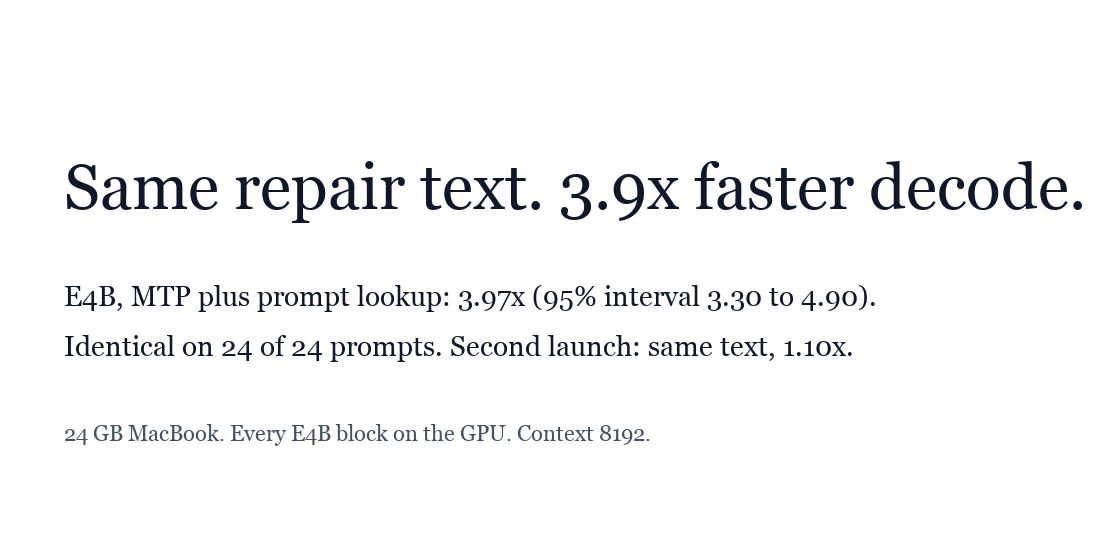
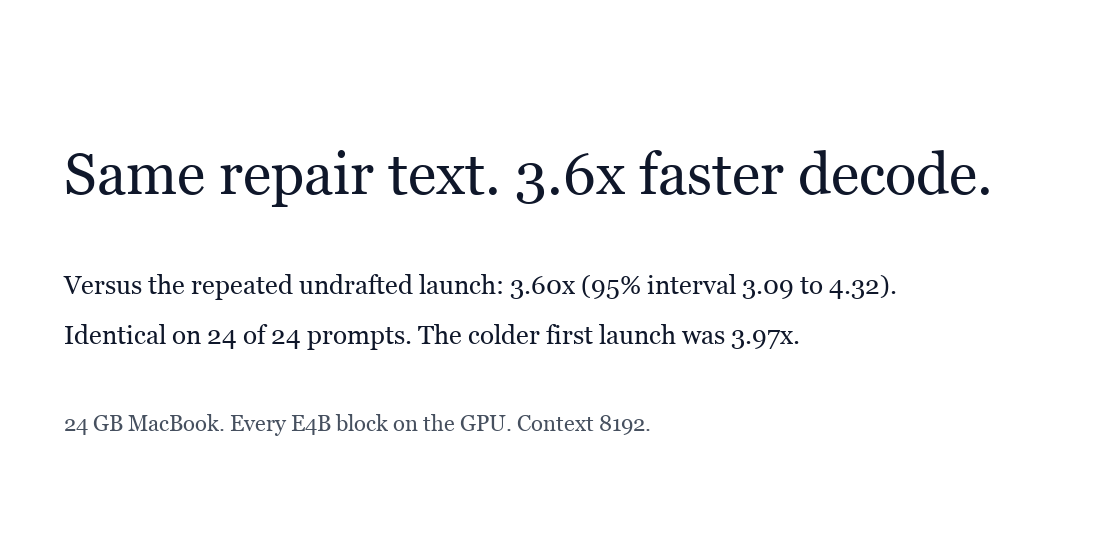
Lead with the 3.60x comparison against the repeated undrafted launch.
The colder first-launch ratios stay in the paper, and the 12B result moves to the limitations.

diff --git a/paper/PAPER_WORK.md b/paper/PAPER_WORK.md
@@ -1,12 +1,12 @@
-# Free Speed: Same E4B Text, 3.9x Faster Decode on a Laptop
+# Free Speed: Same E4B Text, 3.6x Faster Decode on a Laptop
 
-### On a 24 GB MacBook, with every E4B block on the GPU, MTP plus prompt lookup decoded the same repair text {{W1full.e4b.mtp_ngram.ALL.speedup|.2f}} times faster (95 percent interval {{W1full.e4b.mtp_ngram.ALL.speedup_lo|.2f}} to {{W1full.e4b.mtp_ngram.ALL.speedup_hi|.2f}}). A second undrafted launch matched every token.
+### On a 24 GB MacBook, with every E4B block on the GPU, MTP plus prompt lookup decoded the same repair text {{W1full.e4b.mtp_ngram.VS.speedup|.2f}} times faster than a repeated undrafted launch (95 percent interval {{W1full.e4b.mtp_ngram.VS.speedup_lo|.2f}} to {{W1full.e4b.mtp_ngram.VS.speedup_hi|.2f}}).
 
 **Anni Zimina, Orkhan Javadli**
 
 ## Abstract
 
-A Gemma 4 coding agent spends most of its time generating tokens. Gemma 4 ships a multi-token-prediction (MTP) drafter with every model, and prompt lookup can draft tokens by copying from the prompt. We asked whether those two drafters make the same prompts faster without changing the text, on a 24 GB MacBook. A follow-up put every E4B block on the GPU and launched the undrafted server twice on the same {{W1full.e4b.mtp.ALL.n_pairs}} repair prompts. MTP plus prompt lookup decoded at {{W1full.e4b.mtp_ngram.ALL.speedup|.2f}} times the first undrafted rate (95 percent interval {{W1full.e4b.mtp_ngram.ALL.speedup_lo|.2f}} to {{W1full.e4b.mtp_ngram.ALL.speedup_hi|.2f}}), and the full text matched on every prompt. MTP alone was {{W1full.e4b.mtp.ALL.speedup|.2f}} times faster (interval {{W1full.e4b.mtp.ALL.speedup_lo|.2f}} to {{W1full.e4b.mtp.ALL.speedup_hi|.2f}}), also identical on every prompt. The second undrafted launch matched every token and was {{W1full.e4b.baseline_rerun.ALL.speedup|.2f}} times the first (interval {{W1full.e4b.baseline_rerun.ALL.speedup_lo|.2f}} to {{W1full.e4b.baseline_rerun.ALL.speedup_hi|.2f}}), because the first block of the first server was cold. Against that second launch, MTP was still {{W1full.e4b.mtp.VS.speedup|.2f}} times faster (interval {{W1full.e4b.mtp.VS.speedup_lo|.2f}} to {{W1full.e4b.mtp.VS.speedup_hi|.2f}}). Counting prompt processing as well as decode, the MTP ratio is {{W1full.e4b.mtp.ALL.e2e_speedup_with_prefill|.2f}}. The pre-registered 12B comparison did not clear the same bar: a second undrafted 12B launch changed speed by {{W1.12b.baseline_rerun.ALL.speedup|.2f}} times, and no 12B drafter was lossless.
+A Gemma 4 coding agent spends most of its time generating tokens. Gemma 4 ships a multi-token-prediction (MTP) drafter with every model, and prompt lookup can draft tokens by copying from the prompt. We asked whether those two drafters make the same prompts faster without changing the text, on a 24 GB MacBook. A follow-up put every E4B block on the GPU and launched the undrafted server twice on the same {{W1full.e4b.mtp.ALL.n_pairs}} repair prompts. The second launch matched every token and was {{W1full.e4b.baseline_rerun.ALL.speedup|.2f}} times the first, because the first block was cold, so the fair comparison is against that second launch. MTP plus prompt lookup then decoded at {{W1full.e4b.mtp_ngram.VS.speedup|.2f}} times that rate (95 percent interval {{W1full.e4b.mtp_ngram.VS.speedup_lo|.2f}} to {{W1full.e4b.mtp_ngram.VS.speedup_hi|.2f}}), and the full text matched on every prompt. MTP alone was {{W1full.e4b.mtp.VS.speedup|.2f}} times faster (interval {{W1full.e4b.mtp.VS.speedup_lo|.2f}} to {{W1full.e4b.mtp.VS.speedup_hi|.2f}}), also identical on every prompt. Against the colder first launch those ratios are {{W1full.e4b.mtp_ngram.ALL.speedup|.2f}} and {{W1full.e4b.mtp.ALL.speedup|.2f}}. Counting prompt processing as well as decode, the MTP ratio is {{W1full.e4b.mtp.ALL.e2e_speedup_with_prefill|.2f}}.
 
 ## 1. Introduction
 
@@ -81,7 +81,7 @@ If the full-GPU MTP decode ratio of {{W1full.e4b.mtp.ALL.speedup|.3f}} let an ag
 
 ## 4. What this does not show
 
-The 12B speed ratios are not distinguishable from launch-to-launch noise. A repeated baseline that moves by {{W1.12b.baseline_rerun.ALL.speedup|.2f}} times is a finding about laptop timing, not a drafter result: two launches can agree on every token and still disagree on speed by more than the pre-registered 5 percent band. The full-GPU E4B speedup is larger than that band, and the text matched, but the first baseline block was cold, so the fair comparison is the one against the second launch. {{qa.length_share|pct}} of raw rows stopped because they hit the length limit. Prompts use pull-request commit messages, not the competition issue text. The 12B test run and the agent replay both stopped on the clock. The capped runs used 40 percent of the blocks. The full-GPU follow-up did not, and the machine still held swap from the earlier runs. We did not measure the wall clock of a full repair.
+The pre-registered 12B comparison did not clear the lossless bar. No 12B drafter was lossless, and the 12B speed ratios are not distinguishable from launch-to-launch noise. A repeated baseline that moves by {{W1.12b.baseline_rerun.ALL.speedup|.2f}} times is a finding about laptop timing, not a drafter result: two launches can agree on every token and still disagree on speed by more than the pre-registered 5 percent band. The full-GPU E4B speedup is larger than that band, and the text matched, but the first baseline block was cold, so the fair comparison is the one against the second launch. {{qa.length_share|pct}} of raw rows stopped because they hit the length limit. Prompts use pull-request commit messages, not the competition issue text. The 12B test run and the agent replay both stopped on the clock. The capped runs used 40 percent of the blocks. The full-GPU follow-up did not, and the machine still held swap from the earlier runs. We did not measure the wall clock of a full repair.
 
 ## 5. Related work
 

diff --git a/paper/PAPER.md b/paper/PAPER.md
@@ -1,12 +1,12 @@
-# Free Speed: Same E4B Text, 3.9x Faster Decode on a Laptop
+# Free Speed: Same E4B Text, 3.6x Faster Decode on a Laptop
 
-### On a 24 GB MacBook, with every E4B block on the GPU, MTP plus prompt lookup decoded the same repair text 3.97 times faster (95 percent interval 3.30 to 4.90). A second undrafted launch matched every token.
+### On a 24 GB MacBook, with every E4B block on the GPU, MTP plus prompt lookup decoded the same repair text 3.60 times faster than a repeated undrafted launch (95 percent interval 3.09 to 4.32).
 
 **Anni Zimina, Orkhan Javadli**
 
 ## Abstract
 
-A Gemma 4 coding agent spends most of its time generating tokens. Gemma 4 ships a multi-token-prediction (MTP) drafter with every model, and prompt lookup can draft tokens by copying from the prompt. We asked whether those two drafters make the same prompts faster without changing the text, on a 24 GB MacBook. A follow-up put every E4B block on the GPU and launched the undrafted server twice on the same 24 repair prompts. MTP plus prompt lookup decoded at 3.97 times the first undrafted rate (95 percent interval 3.30 to 4.90), and the full text matched on every prompt. MTP alone was 3.38 times faster (interval 2.91 to 3.96), also identical on every prompt. The second undrafted launch matched every token and was 1.10 times the first (interval 1.01 to 1.21), because the first block of the first server was cold. Against that second launch, MTP was still 3.07 times faster (interval 2.73 to 3.52). Counting prompt processing as well as decode, the MTP ratio is 2.59. The pre-registered 12B comparison did not clear the same bar: a second undrafted 12B launch changed speed by 1.46 times, and no 12B drafter was lossless.
+A Gemma 4 coding agent spends most of its time generating tokens. Gemma 4 ships a multi-token-prediction (MTP) drafter with every model, and prompt lookup can draft tokens by copying from the prompt. We asked whether those two drafters make the same prompts faster without changing the text, on a 24 GB MacBook. A follow-up put every E4B block on the GPU and launched the undrafted server twice on the same 24 repair prompts. The second launch matched every token and was 1.10 times the first, because the first block was cold, so the fair comparison is against that second launch. MTP plus prompt lookup then decoded at 3.60 times that rate (95 percent interval 3.09 to 4.32), and the full text matched on every prompt. MTP alone was 3.07 times faster (interval 2.73 to 3.52), also identical on every prompt. Against the colder first launch those ratios are 3.97 and 3.38. Counting prompt processing as well as decode, the MTP ratio is 2.59.
 
 ## 1. Introduction
 
@@ -81,7 +81,7 @@ If the full-GPU MTP decode ratio of 3.381 let an agent attempt more repairs in t
 
 ## 4. What this does not show
 
-The 12B speed ratios are not distinguishable from launch-to-launch noise. A repeated baseline that moves by 1.46 times is a finding about laptop timing, not a drafter result: two launches can agree on every token and still disagree on speed by more than the pre-registered 5 percent band. The full-GPU E4B speedup is larger than that band, and the text matched, but the first baseline block was cold, so the fair comparison is the one against the second launch. 18.7% of raw rows stopped because they hit the length limit. Prompts use pull-request commit messages, not the competition issue text. The 12B test run and the agent replay both stopped on the clock. The capped runs used 40 percent of the blocks. The full-GPU follow-up did not, and the machine still held swap from the earlier runs. We did not measure the wall clock of a full repair.
+The pre-registered 12B comparison did not clear the lossless bar. No 12B drafter was lossless, and the 12B speed ratios are not distinguishable from launch-to-launch noise. A repeated baseline that moves by 1.46 times is a finding about laptop timing, not a drafter result: two launches can agree on every token and still disagree on speed by more than the pre-registered 5 percent band. The full-GPU E4B speedup is larger than that band, and the text matched, but the first baseline block was cold, so the fair comparison is the one against the second launch. 18.7% of raw rows stopped because they hit the length limit. Prompts use pull-request commit messages, not the competition issue text. The 12B test run and the agent replay both stopped on the clock. The capped runs used 40 percent of the blocks. The full-GPU follow-up did not, and the machine still held swap from the earlier runs. We did not measure the wall clock of a full repair.
 
 ## 5. Related work
 

diff --git a/SUBMISSION/BODY.md b/SUBMISSION/BODY.md
@@ -1,6 +1,6 @@
 ## Abstract
 
-A Gemma 4 coding agent spends most of its time generating tokens. Gemma 4 ships a multi-token-prediction (MTP) drafter with every model, and prompt lookup can draft tokens by copying from the prompt. We asked whether those two drafters make the same prompts faster without changing the text, on a 24 GB MacBook. A follow-up put every E4B block on the GPU and launched the undrafted server twice on the same 24 repair prompts. MTP plus prompt lookup decoded at 3.97 times the first undrafted rate (95 percent interval 3.30 to 4.90), and the full text matched on every prompt. MTP alone was 3.38 times faster (interval 2.91 to 3.96), also identical on every prompt. The second undrafted launch matched every token and was 1.10 times the first (interval 1.01 to 1.21), because the first block of the first server was cold. Against that second launch, MTP was still 3.07 times faster (interval 2.73 to 3.52). Counting prompt processing as well as decode, the MTP ratio is 2.59. The pre-registered 12B comparison did not clear the same bar: a second undrafted 12B launch changed speed by 1.46 times, and no 12B drafter was lossless.
+A Gemma 4 coding agent spends most of its time generating tokens. Gemma 4 ships a multi-token-prediction (MTP) drafter with every model, and prompt lookup can draft tokens by copying from the prompt. We asked whether those two drafters make the same prompts faster without changing the text, on a 24 GB MacBook. A follow-up put every E4B block on the GPU and launched the undrafted server twice on the same 24 repair prompts. The second launch matched every token and was 1.10 times the first, because the first block was cold, so the fair comparison is against that second launch. MTP plus prompt lookup then decoded at 3.60 times that rate (95 percent interval 3.09 to 4.32), and the full text matched on every prompt. MTP alone was 3.07 times faster (interval 2.73 to 3.52), also identical on every prompt. Against the colder first launch those ratios are 3.97 and 3.38. Counting prompt processing as well as decode, the MTP ratio is 2.59.
 
 ## 1. Introduction
 
@@ -75,7 +75,7 @@ If the full-GPU MTP decode ratio of 3.381 let an agent attempt more repairs in t
 
 ## 4. What this does not show
 
-The 12B speed ratios are not distinguishable from launch-to-launch noise. A repeated baseline that moves by 1.46 times is a finding about laptop timing, not a drafter result: two launches can agree on every token and still disagree on speed by more than the pre-registered 5 percent band. The full-GPU E4B speedup is larger than that band, and the text matched, but the first baseline block was cold, so the fair comparison is the one against the second launch. 18.7% of raw rows stopped because they hit the length limit. Prompts use pull-request commit messages, not the competition issue text. The 12B test run and the agent replay both stopped on the clock. The capped runs used 40 percent of the blocks. The full-GPU follow-up did not, and the machine still held swap from the earlier runs. We did not measure the wall clock of a full repair.
+The pre-registered 12B comparison did not clear the lossless bar. No 12B drafter was lossless, and the 12B speed ratios are not distinguishable from launch-to-launch noise. A repeated baseline that moves by 1.46 times is a finding about laptop timing, not a drafter result: two launches can agree on every token and still disagree on speed by more than the pre-registered 5 percent band. The full-GPU E4B speedup is larger than that band, and the text matched, but the first baseline block was cold, so the fair comparison is the one against the second launch. 18.7% of raw rows stopped because they hit the length limit. Prompts use pull-request commit messages, not the competition issue text. The 12B test run and the agent replay both stopped on the clock. The capped runs used 40 percent of the blocks. The full-GPU follow-up did not, and the machine still held swap from the earlier runs. We did not measure the wall clock of a full repair.
 
 ## 5. Related work
 

diff --git a/README.md b/README.md
@@ -4,8 +4,8 @@ A laptop measurement of Gemma 4's shipped multi-token-prediction drafter and of 
 
 On this machine (Apple M4 Pro, 24 GB, context 8192):
 
-- Full GPU, every E4B block: MTP plus prompt lookup decoded the same repair text 3.97 times faster than the first undrafted launch (95 percent interval 3.30 to 4.90) on 24 of 24 prompts. MTP alone was 3.38 times faster (interval 2.91 to 3.96), also identical on all 24.
-- A second undrafted E4B launch matched every token and was 1.10 times the first (interval 1.01 to 1.21), because the first block was cold. Against that second launch, MTP was 3.07 times faster (interval 2.73 to 3.52).
+- Full GPU, every E4B block: the fair comparison is against the second undrafted launch, which matched every token. MTP plus prompt lookup was 3.60 times faster (95 percent interval 3.09 to 4.32) on 24 of 24 prompts. MTP alone was 3.07 times faster (interval 2.73 to 3.52), also identical on all 24.
+- Against the colder first launch those ratios are 3.97 and 3.38. The second launch itself was 1.10 times the first (interval 1.01 to 1.21).
 - The capped 12B runs did not clear the same bar. A second undrafted 12B launch changed speed by 1.46 times with identical text.
 
 ## Rerun
